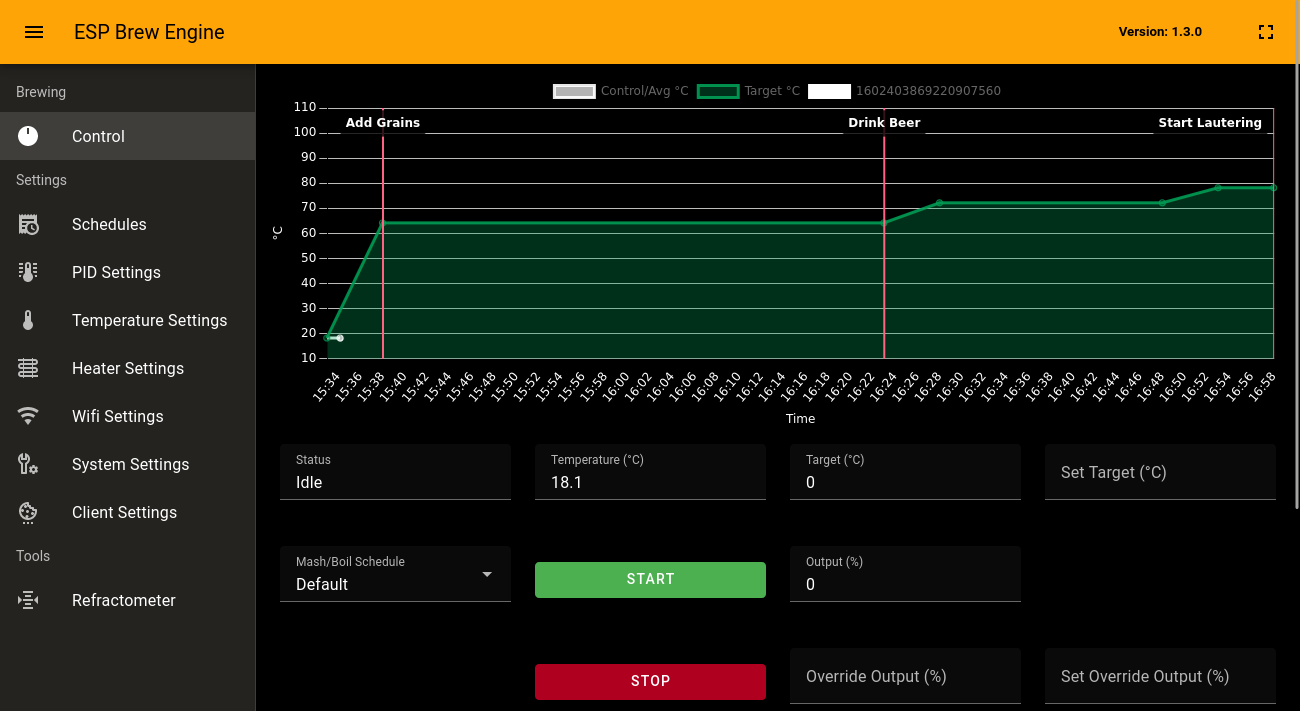
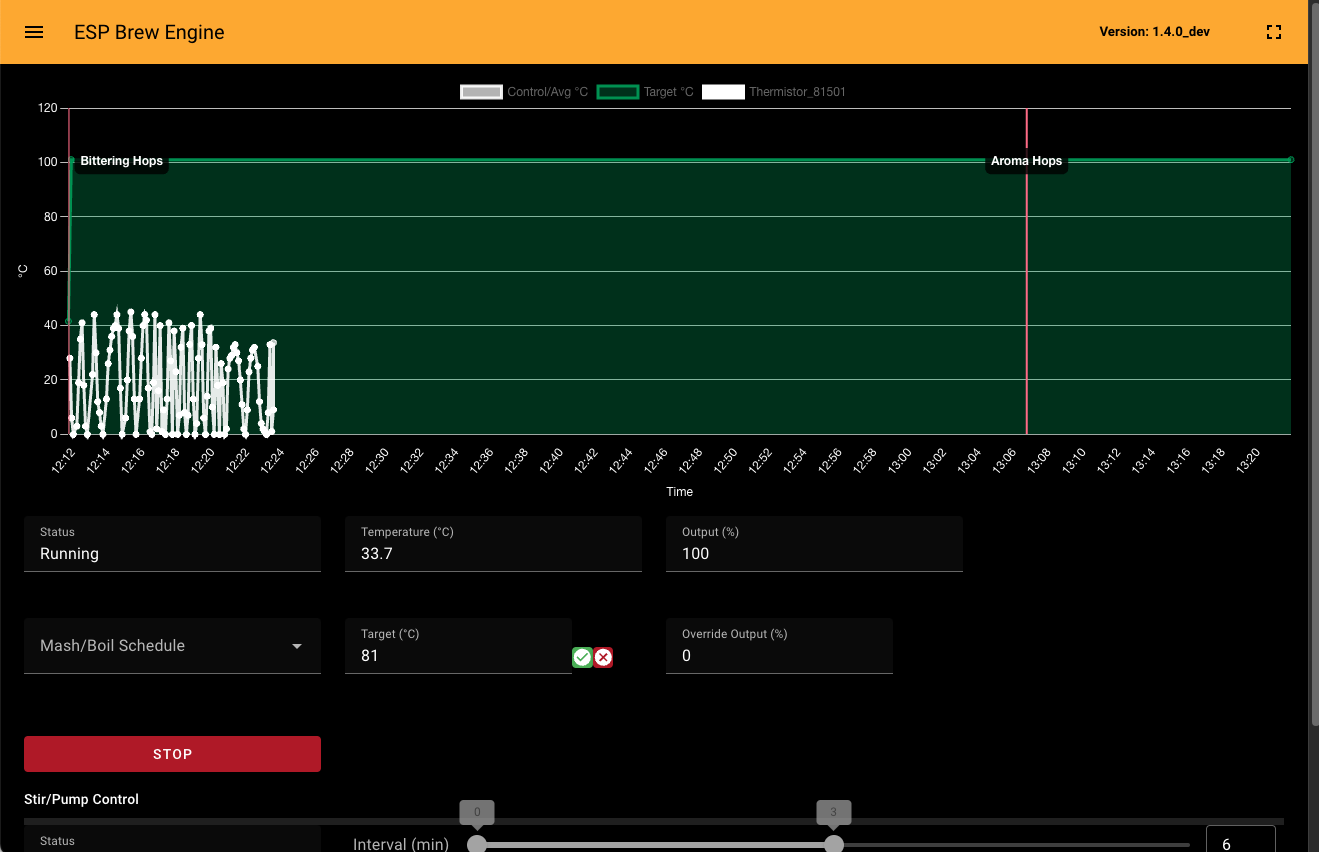
simplification of the ui + offline capable
Buttons for starting and stopping the brewing process and the pump have been merged.
SetTarget and Override Output fields merged.
API extended so that the local time of the MCU is included in every request.
Synchronization of the local browser time with the time of the MCU, so that the MCU time no longer plays a role if no online time NTP could be set.

diff --git a/web/src/views/Control.vue b/web/src/views/Control.vue
@@ -1,4 +1,5 @@
 <script lang="ts" setup>
+import { mdiCheckCircle, mdiCloseCircle } from '@mdi/js';
 import { CategoryScale, Chart as ChartJS, Filler, Legend, LineElement, LinearScale, PointElement, TimeScale, Title, Tooltip } from 'chart.js';
 import TemperatureScale from '@/enums/TemperatureScale';
 import WebConn from '@/helpers/webConn';
@@ -28,8 +29,9 @@ const stirStatus = ref<string>();
 const temperature = ref<number>();
 const outputPercent = ref<number>();
 const targetTemperature = ref<number>();
-const targetTemperatureSet = ref<number>();
+const targetTemperatureChanged = ref<boolean>(false);
 const manualOverrideOutput = ref<number | null>(null);
+const manualOverrideOutputChanged= ref<boolean>(false);
 const inOverTime = ref<boolean>(false);
 
 const intervalId = ref<any>();
@@ -56,6 +58,8 @@ const selectedMashSchedule = ref<IMashSchedule | null>(null);
 
 const currentTemps = ref<Array<ITempLog>>([]);
 
+const serverTime = ref<number>();
+const serverTimeDelta = ref<number>();
 const startDateTime = ref<number>();
 const speechVoice = ref<SpeechSynthesisVoice | null>(null);
 
@@ -188,6 +192,13 @@ const chartAnnotations = computed(() => {
     annotationData.push(notificationPoint);
   });
 
+  // sync remote and local time
+  if(serverTimeDelta.value != null){
+    annotationData.forEach((dataset) => {
+      dataset.xMin+= serverTimeDelta.value;
+      dataset.xMax+= serverTimeDelta.value;
+    });
+  }
   return annotationData;
 });
 
@@ -245,7 +256,7 @@ const chartData = computed(() => {
   // also add the current value, out controller doesn't send identical temp point for performance reasons
   if (lastGoodDataDate.value != null && temperature.value != null) {
     realData.push({
-      x: Date.now(),
+      x: serverTime.value! * 1000,
       y: temperature.value,
     });
   }
@@ -306,6 +317,15 @@ const chartData = computed(() => {
 
   datasets = [...datasets, ...extraDataSets];
 
+  // sync remote and local time
+  if(serverTimeDelta.value != null){
+    datasets.forEach((dataset) => {
+      dataset.data.forEach((item) => {
+        item.x += serverTimeDelta.value;
+      })
+    });
+  }
+
   return {
     labels: [],
     datasets,
@@ -327,7 +347,7 @@ const setNotifications = (newNotifications: Array<INotification>) => {
 
   //not done, or fist start
   newNotifications.filter((n) => n.done === false || notificationFirstStart.value == true).forEach((notification) => {
-    const timeTill = (notification.timePoint * 1000) - Date.now();
+    const timeTill = (notification.timePoint-serverTime.value!)*1000;
     const timeoutId = window.setTimeout(() => {
       showNotificaton(notification, true);
     }, timeTill);
@@ -353,9 +373,17 @@ const getRunningSchedule = async () => {
   }
 
   executionSteps.value = apiResult.data.steps;
+  setServerTime(apiResult.serverTime);
   setNotifications(apiResult.data.notifications as Array<INotification>);
 
   lastRunningVersion.value = apiResult.data.version;
+};
+
+const setServerTime= (value: number) => {
+  if(value != null){
+    serverTimeDelta.value =  Date.now() - (value*1000);
+    serverTime.value = value;
+  }
 };
 
 const getData = async () => {
@@ -371,13 +399,20 @@ const getData = async () => {
   if (apiResult === undefined || apiResult.success === false) {
     return;
   }
-
+  setServerTime(apiResult.serverTime);
   status.value = apiResult.data.status;
   stirStatus.value = apiResult.data.stirStatus;
   temperature.value = apiResult.data.temp;
   outputPercent.value = apiResult.data.output;
-  manualOverrideOutput.value = apiResult.data.manualOverrideOutput;
-  targetTemperature.value = apiResult.data.targetTemp;
+  
+  if(!manualOverrideOutputChanged.value){
+    manualOverrideOutput.value = apiResult.data.manualOverrideOutput;  
+  }
+  
+  if(!targetTemperatureChanged.value){
+    targetTemperature.value = apiResult.data.targetTemp;
+  }
+
   lastGoodDataDate.value = apiResult.data.lastLogDateTime;
   inOverTime.value = apiResult.data.inOverTime;
   const serverRunningVersion = apiResult.data.runningVersion;
@@ -400,7 +435,7 @@ const getData = async () => {
   rawData.value = tempData;
 
   // if there are more then 1 sensor we also get the raw data per sensor (whitout history)
-  const timestampSeconds = Math.floor(Date.now() / 1000);
+  const timestampSeconds = serverTime.value!;
 
   if (apiResult.data.temps !== null) {
     apiResult.data.temps.forEach((t: any) => {
@@ -447,12 +482,12 @@ const getData = async () => {
 };
 
 const changeTargetTemp = async () => {
-  if (targetTemperatureSet.value === undefined) {
+  if (targetTemperature.value === undefined) {
     return;
   }
 
   // for some reason value is still a string while ref defined as number, bug in vue?
-  const forceInt = parseInt(targetTemperatureSet.value?.toString(), 10);
+  const forceInt = parseInt(targetTemperature.value?.toString(), 10);
 
   const requestData = {
     command: 'SetTemp',
@@ -463,14 +498,15 @@ const changeTargetTemp = async () => {
 
   webConn?.doPostRequest(requestData);
   // todo capture error
+  targetTemperatureChanged.value = false;
 };
 
-const changeOverrideOutput = (event: any) => {
-  if (event.target.value === undefined) {
+const changeOverrideOutput = () => {
+  if (manualOverrideOutput.value === null) {
     return;
   }
 
-  const forceInt = parseInt(event.target.value.toString(), 10);
+  const forceInt = parseInt(manualOverrideOutput.value.toString(), 10);
 
   const requestData = {
     command: 'SetOverrideOutput',
@@ -481,11 +517,12 @@ const changeOverrideOutput = (event: any) => {
 
   webConn?.doPostRequest(requestData);
   // todo capture error
+
+  manualOverrideOutputChanged.value = false;
 };
 
 const setStartDateNow = () => {
-  const now = new Date();
-  startDateTime.value = Math.floor(now.getTime() / 1000);
+  startDateTime.value = serverTime.value;
 };
 
 const start = async () => {
@@ -511,6 +548,7 @@ const start = async () => {
   // todo capture error
   // reset out running version so we can definitly get the new schedule
   lastRunningVersion.value = 0;
+  getData();
 };
 
 const stop = async () => {
@@ -523,6 +561,7 @@ const stop = async () => {
 
   webConn?.doPostRequest(requestData);
   // todo capture error
+  getData();
 };
 
 const startStir = async () => {
@@ -537,6 +576,7 @@ const startStir = async () => {
 
   await webConn?.doPostRequest(requestData);
   // todo capture error
+  getData();
 };
 
 const stopStir = async () => {
@@ -547,11 +587,9 @@ const stopStir = async () => {
 
   webConn?.doPostRequest(requestData);
   // todo capture error
+  getData();
 };
 
-const debounceTargetTemp = debounce(changeTargetTemp, 1000);
-
-watch(() => targetTemperatureSet.value, debounceTargetTemp);
 
 watch(selectedMashSchedule, () => {
   // reset all our data so we can start over
@@ -679,76 +717,85 @@ onBeforeUnmount(() => {
           <v-text-field v-model="temperature" readonly :label="`${$t('control.temperature')} (${appStore.tempUnit})`" />
         </v-col>
         <v-col cols="12" md="3">
-          <v-text-field v-model="targetTemperature" readonly :label="`${$t('control.target')} (${appStore.tempUnit})`" />
-        </v-col>
-        <v-col cols="12" md="3">
-          <v-text-field v-model="targetTemperatureSet" type="number" :label="`${$t('control.set_target')} (${appStore.tempUnit})`" />
-        </v-col>
+          <v-text-field v-model="outputPercent" readonly :label="`${$t('control.output')} (%)`" />
+        </v-col> 
       </v-row>
       <v-row>
         <v-col cols="12" md="3">
           <v-select :label="$t('control.mashSchedule')" :readonly="status !== 'Idle'" v-model="selectedMashSchedule" :items="appStore.mashSchedules" item-title="name" :filled="appStore.mashSchedules" :clearable="status === 'Idle'" return-object />
         </v-col>
         <v-col cols="12" md="3">
-          <v-btn color="success" class="mt-4" block @click="start"> {{ $t('control.start') }} </v-btn>
-
+          <div style="display: flex;align-items: center;">
+            <v-text-field v-model="targetTemperature" type="number" :label="`${$t('control.target')} (${appStore.tempUnit})`" @input="targetTemperatureChanged=true" />
+            <div style="width: 70px">
+              <v-btn v-show="targetTemperatureChanged" size="auto" density="compact" color="success" @click="changeTargetTemp()">
+                <v-icon >{{ mdiCheckCircle }}</v-icon>
+              </v-btn>
+              <v-btn v-show="targetTemperatureChanged" size="auto" density="compact" color="error" @click="targetTemperature = undefined; targetTemperatureChanged=false; getData();">
+                <v-icon >{{ mdiCloseCircle }}</v-icon>
+              </v-btn>
+            </div>              
+          </div>                    
         </v-col>
         <v-col cols="12" md="3">
-          <v-text-field v-model="outputPercent" readonly :label="`${$t('control.output')} (%)`" />
+          <div style="display: flex;align-items: center;">
+            <v-text-field v-model.number="manualOverrideOutput" type="number" :label="$t('control.override_output')" @input="manualOverrideOutputChanged=true" />
+            <div style="width: 70px">
+              <v-btn v-show="manualOverrideOutputChanged" size="auto" density="compact" color="success" @click="changeOverrideOutput()">
+                <v-icon >{{ mdiCheckCircle }}</v-icon>
+              </v-btn>
+              <v-btn v-show="manualOverrideOutputChanged" size="auto" density="compact" color="error" @click="manualOverrideOutput = null; manualOverrideOutputChanged=false; getData();">
+                <v-icon >{{ mdiCloseCircle }}</v-icon>
+              </v-btn>
+            </div>
+          </div>
         </v-col>
 
       </v-row>
       <v-row>
-        <v-col cols="12" md="3" />
         <v-col cols="12" md="3">
-          <v-btn color="error" class="mt-4" block @click="stop"> {{ $t('control.stop') }} </v-btn> </v-col>
-        <v-col cols="12" md="3">
-          <v-text-field v-model.number="manualOverrideOutput" type="number" :label="$t('control.override_output')" readonly />
-        </v-col>
-        <v-col cols="12" md="3">
-          <v-text-field type="number" :label="$t('control.set_override_output')" @change="changeOverrideOutput" />
+          <v-btn v-if="status === 'Idle'" color="success" class="mt-4" block @click="start"> {{ $t('control.start') }} </v-btn>
+          <v-btn v-else color="error" class="mt-4" block @click="stop"> {{ $t('control.stop') }} </v-btn>
         </v-col>
       </v-row>
-      <div class="text-subtitle-2 mt-4 mb-2">{{ $t('control.stir_control') }}</div>
+      <div v-if="stirStatus !== 'Disabled'">
+        <div class="text-subtitle-2 mt-4 mb-2">{{ $t('control.stir_control') }}</div>
+        <v-divider :thickness="7" />
+        <v-row>
+          <v-col cols="12" md="3">
+            <v-text-field v-model="stirStatus" readonly :label="$t('control.status')" />
+          </v-col>
 
-      <v-divider :thickness="7" />
-      <v-row>
+          <v-col cols="12" md="">
+            <v-range-slider
+              v-model="stirInterval"
+              :label="$t('control.interval')"
+              step="1"
+              thumb-label="always"
+              :max="stirMax">
+              <template v-slot:append>
+                <v-text-field
+                  v-model.number="stirMax"
+                  hide-details
+                  single-line
+                  type="number"
+                  variant="outlined"
+                  style="width: 70px"
+                  density="compact"
+                  :label="$t('control.timespan')" />
+              </template>
+            </v-range-slider>
 
-        <v-col cols="12" md="">
-
-          <v-range-slider
-            v-model="stirInterval"
-            :label="$t('control.interval')"
-            step="1"
-            thumb-label="always"
-            :max="stirMax">
-            <template v-slot:append>
-              <v-text-field
-                v-model.number="stirMax"
-                hide-details
-                single-line
-                type="number"
-                variant="outlined"
-                style="width: 70px"
-                density="compact"
-                :label="$t('control.timespan')" />
-            </template>
-          </v-range-slider>
-
-        </v-col>
-      </v-row>
-      <v-row>
-        <v-col cols="12" md="3">
-          <v-text-field v-model="stirStatus" readonly :label="$t('control.status')" />
-        </v-col>
-        <v-col cols="12" md="3">
-          <v-btn color="success" class="mt-4" block @click="startStir"> {{ $t('control.start') }} </v-btn>
-        </v-col>
-        <v-col cols="12" md="3">
-          <v-btn color="error" class="mt-4" block @click="stopStir"> {{ $t('control.stop') }} </v-btn>
-        </v-col>
-        <v-col cols="12" md="3" />
-      </v-row>
+          </v-col>
+        </v-row>
+        <v-row>        
+          <v-col cols="12" md="3">
+            <v-btn v-if="stirStatus === 'Idle'" color="success" class="mt-4" block @click="startStir"> {{ $t('control.start') }} </v-btn>        
+            <v-btn v-else color="error" class="mt-4" block @click="stopStir"> {{ $t('control.stop') }} </v-btn>
+          </v-col>
+          <v-col cols="12" md="3" />
+        </v-row>
+        </div>      
     </v-form>
   </v-container>
 </template>

diff --git a/web/src/helpers/webConn.ts b/web/src/helpers/webConn.ts
@@ -32,6 +32,7 @@ export default class WebConn {
           success: false,
           data: null,
           message: error,
+          serverTime: 0,
         };
         reject(apiResult);
       });

diff --git a/web/src/interfaces/IApiResult.ts b/web/src/interfaces/IApiResult.ts
@@ -1,5 +1,6 @@
 export interface IApiResult {
   success: boolean,
   data: any,
-  message: string
+  message: string,
+  serverTime: number
 }

diff --git a/components/brew-engine/brew-engine.cpp b/components/brew-engine/brew-engine.cpp
@@ -2025,6 +2025,8 @@ string BrewEngine::processCommand(const string &payLoad)
 	{
 		jResultPayload["message"] = message;
 	}
+	
+	jResultPayload["serverTime"] = time(0);
 
 	string resultPayload = jResultPayload.dump();
 
